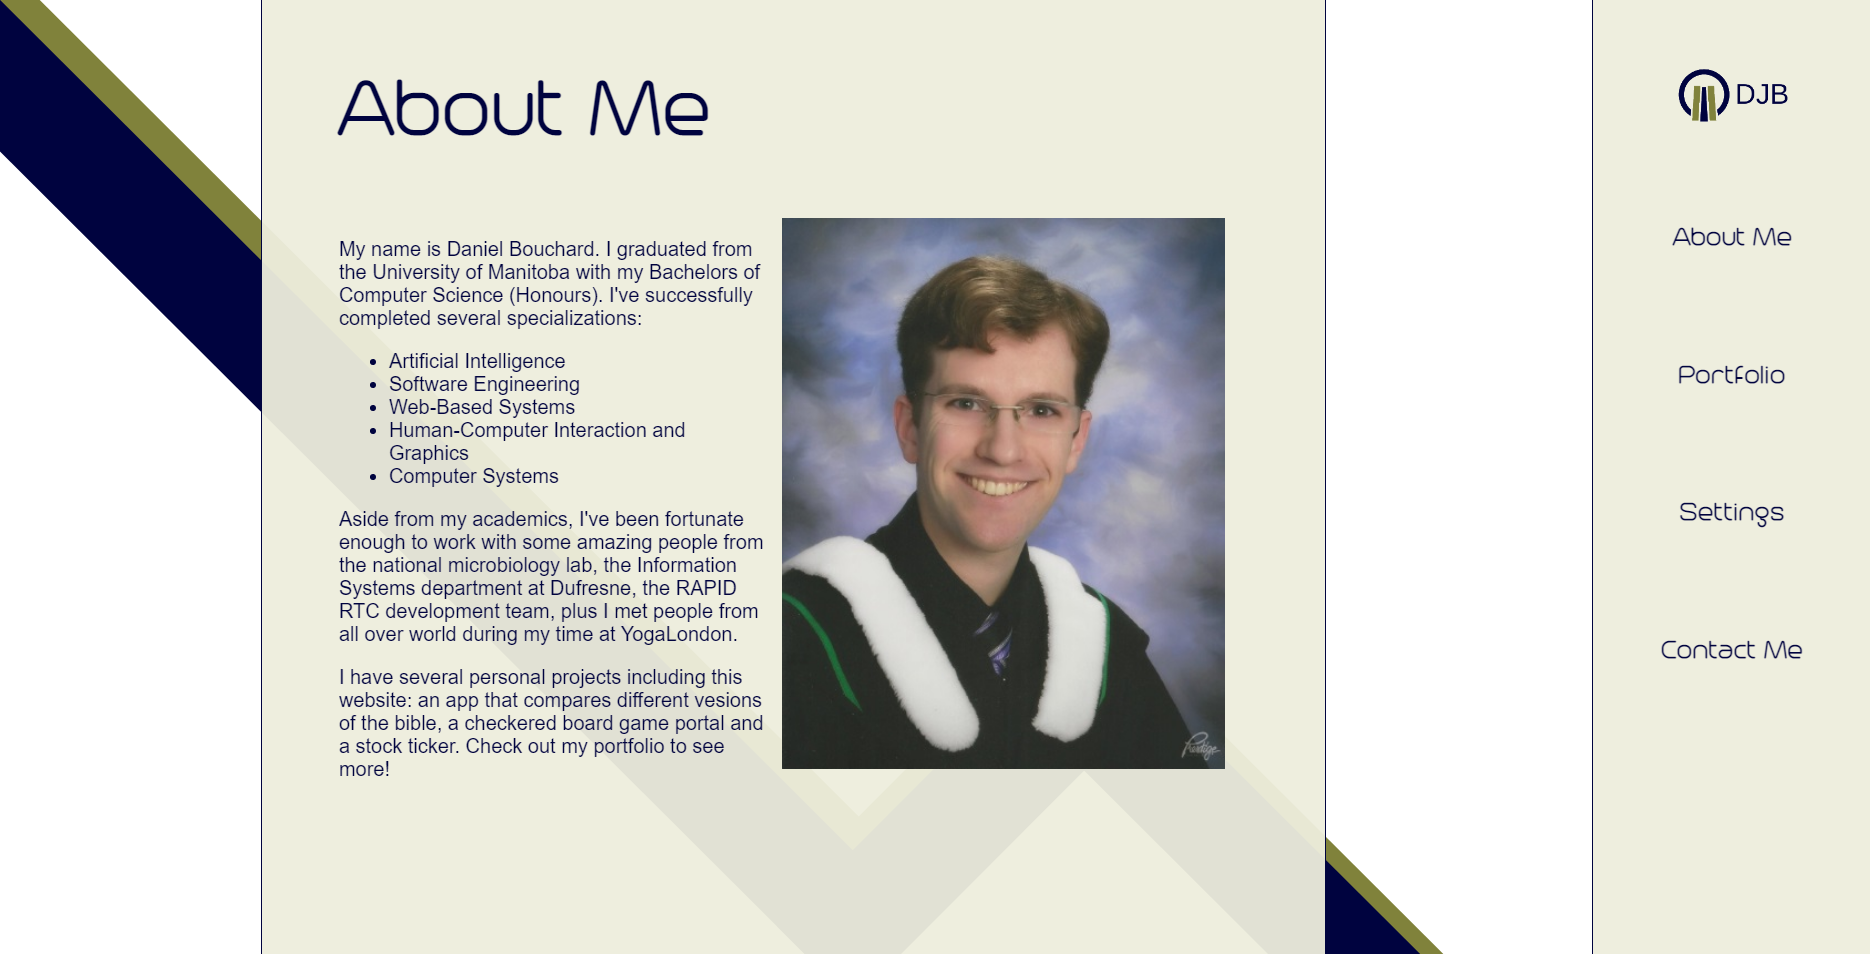
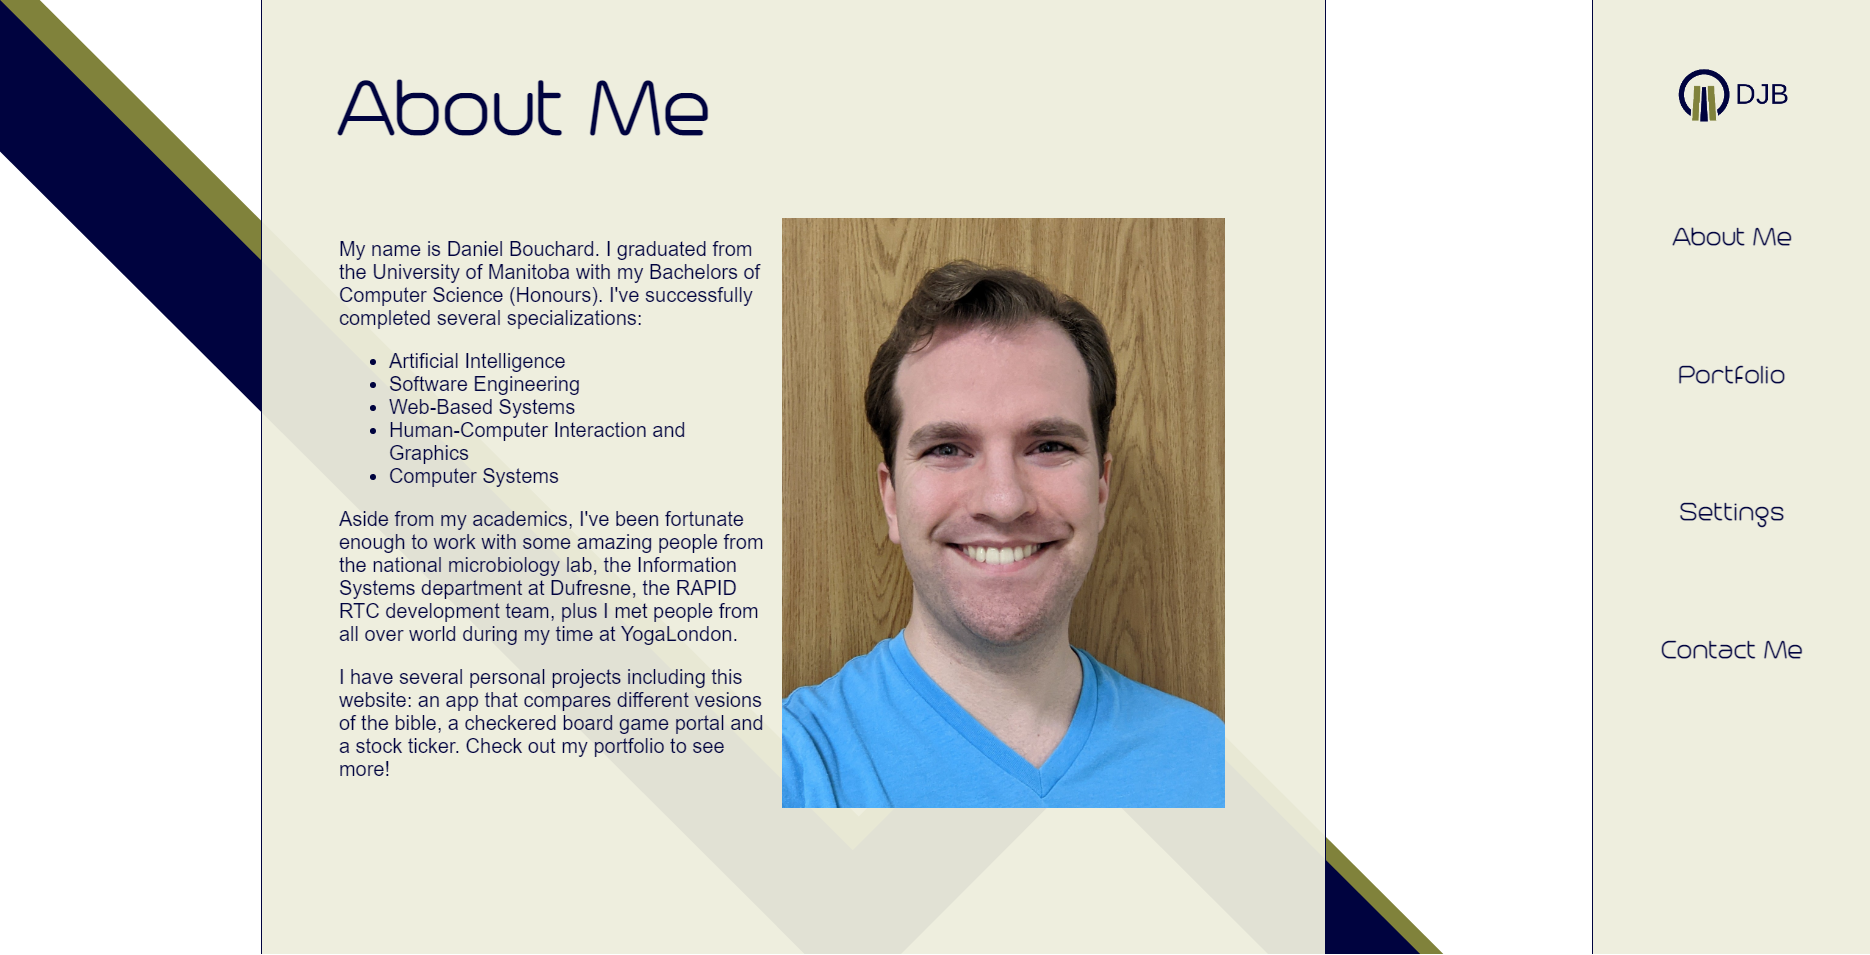
Update photos

Changed region(s): [[0.4032, 0.2126, 0.6824, 0.8503]]

diff --git a/pages/about.html b/pages/about.html
@@ -3,7 +3,7 @@
 <div id="page">
     <h1 id="head">About Me</h1>
     <div id="body">
-        <img id="headshot" src="../res/img/pages/about/BlueNoHat_med.jpg" />
+        <img id="headshot" src="../res/img/pages/about/profile.jpg" />
         <p>
             My name is Daniel Bouchard. I graduated from the University of Manitoba with
             my Bachelors of Computer Science (Honours). I've
